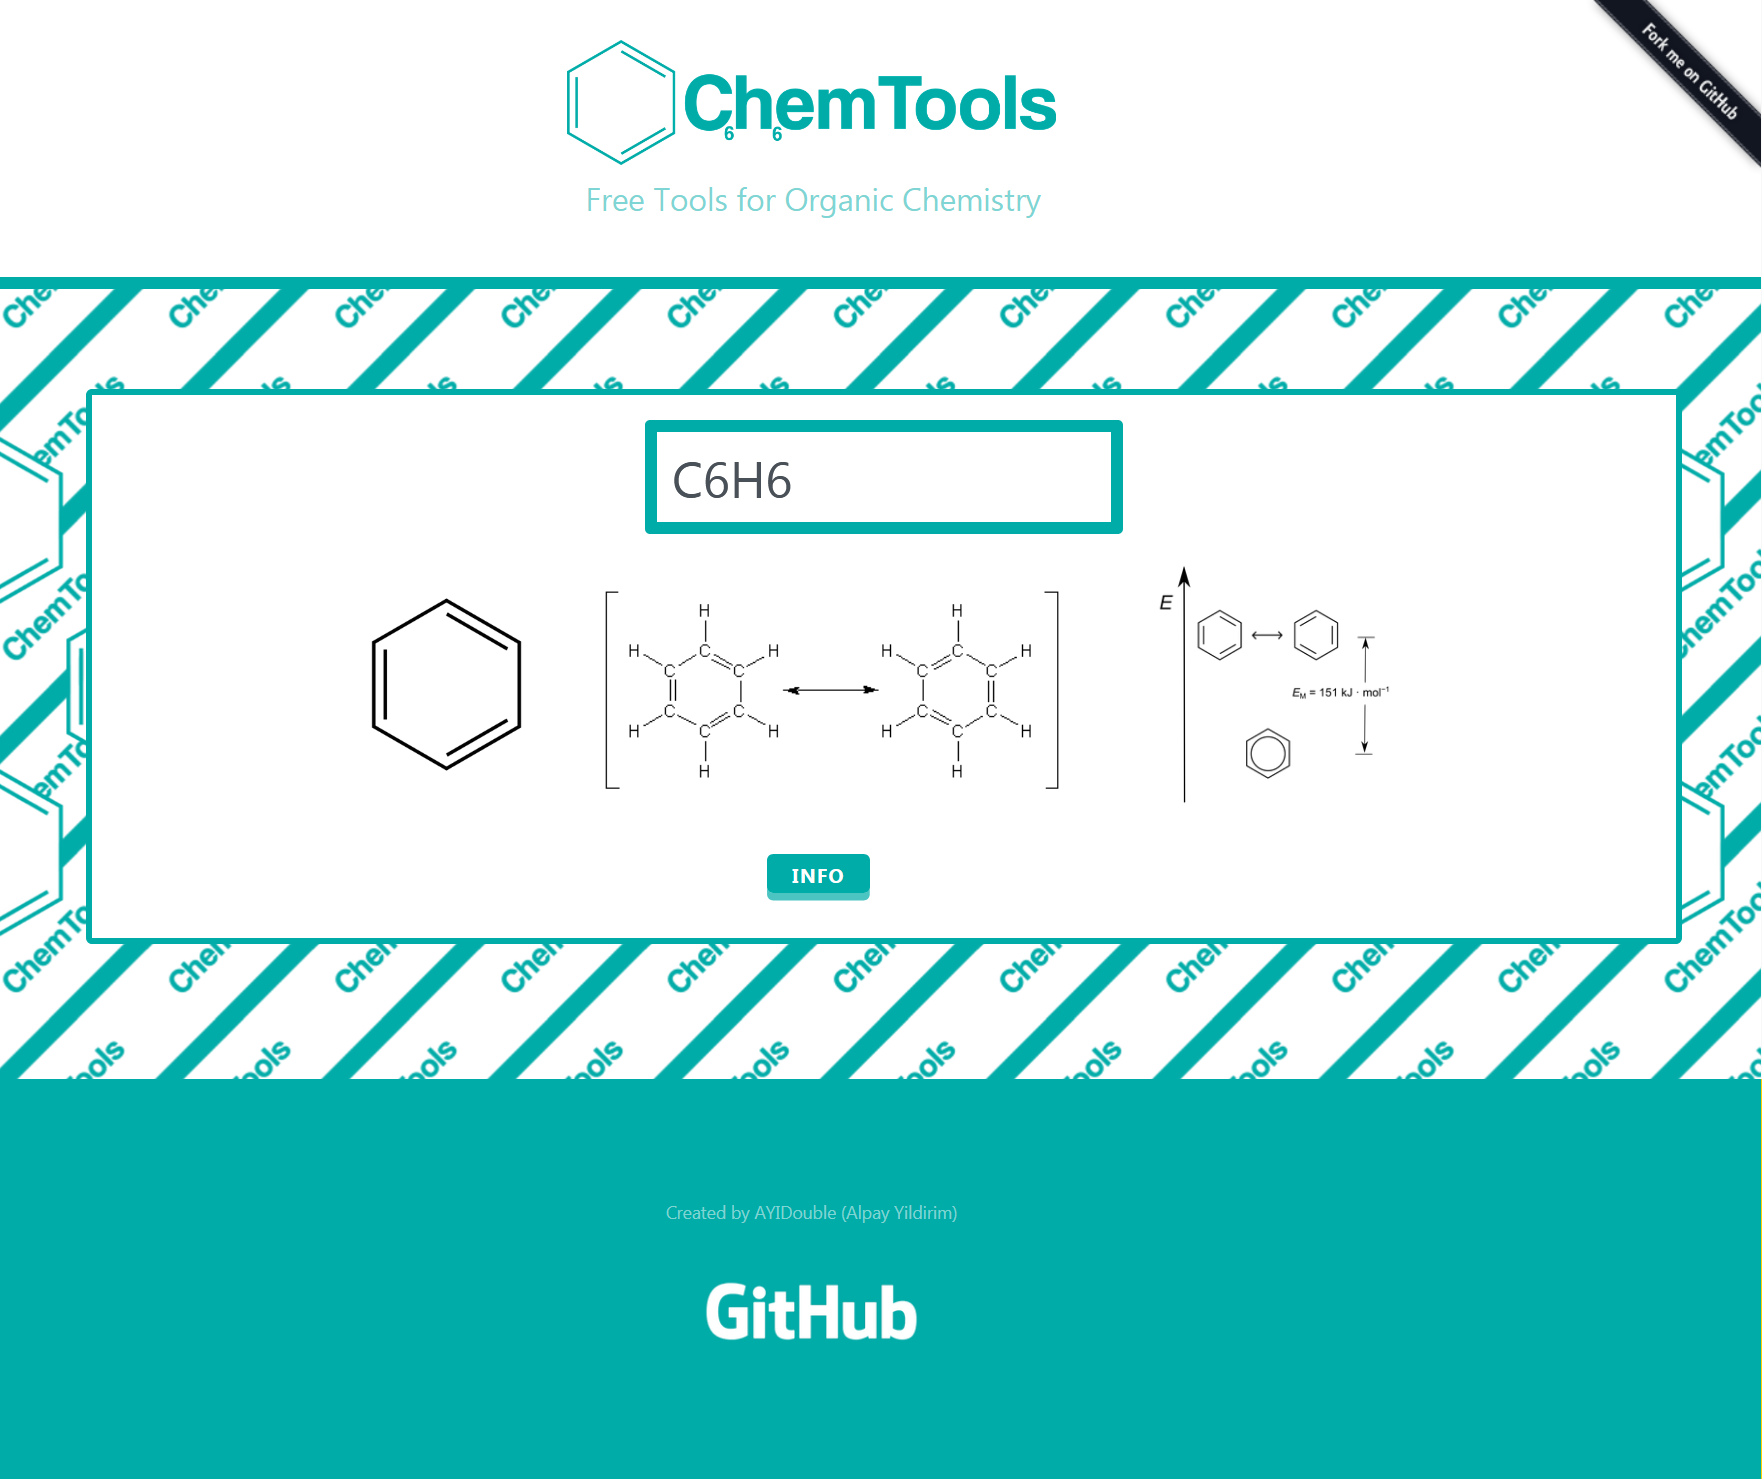
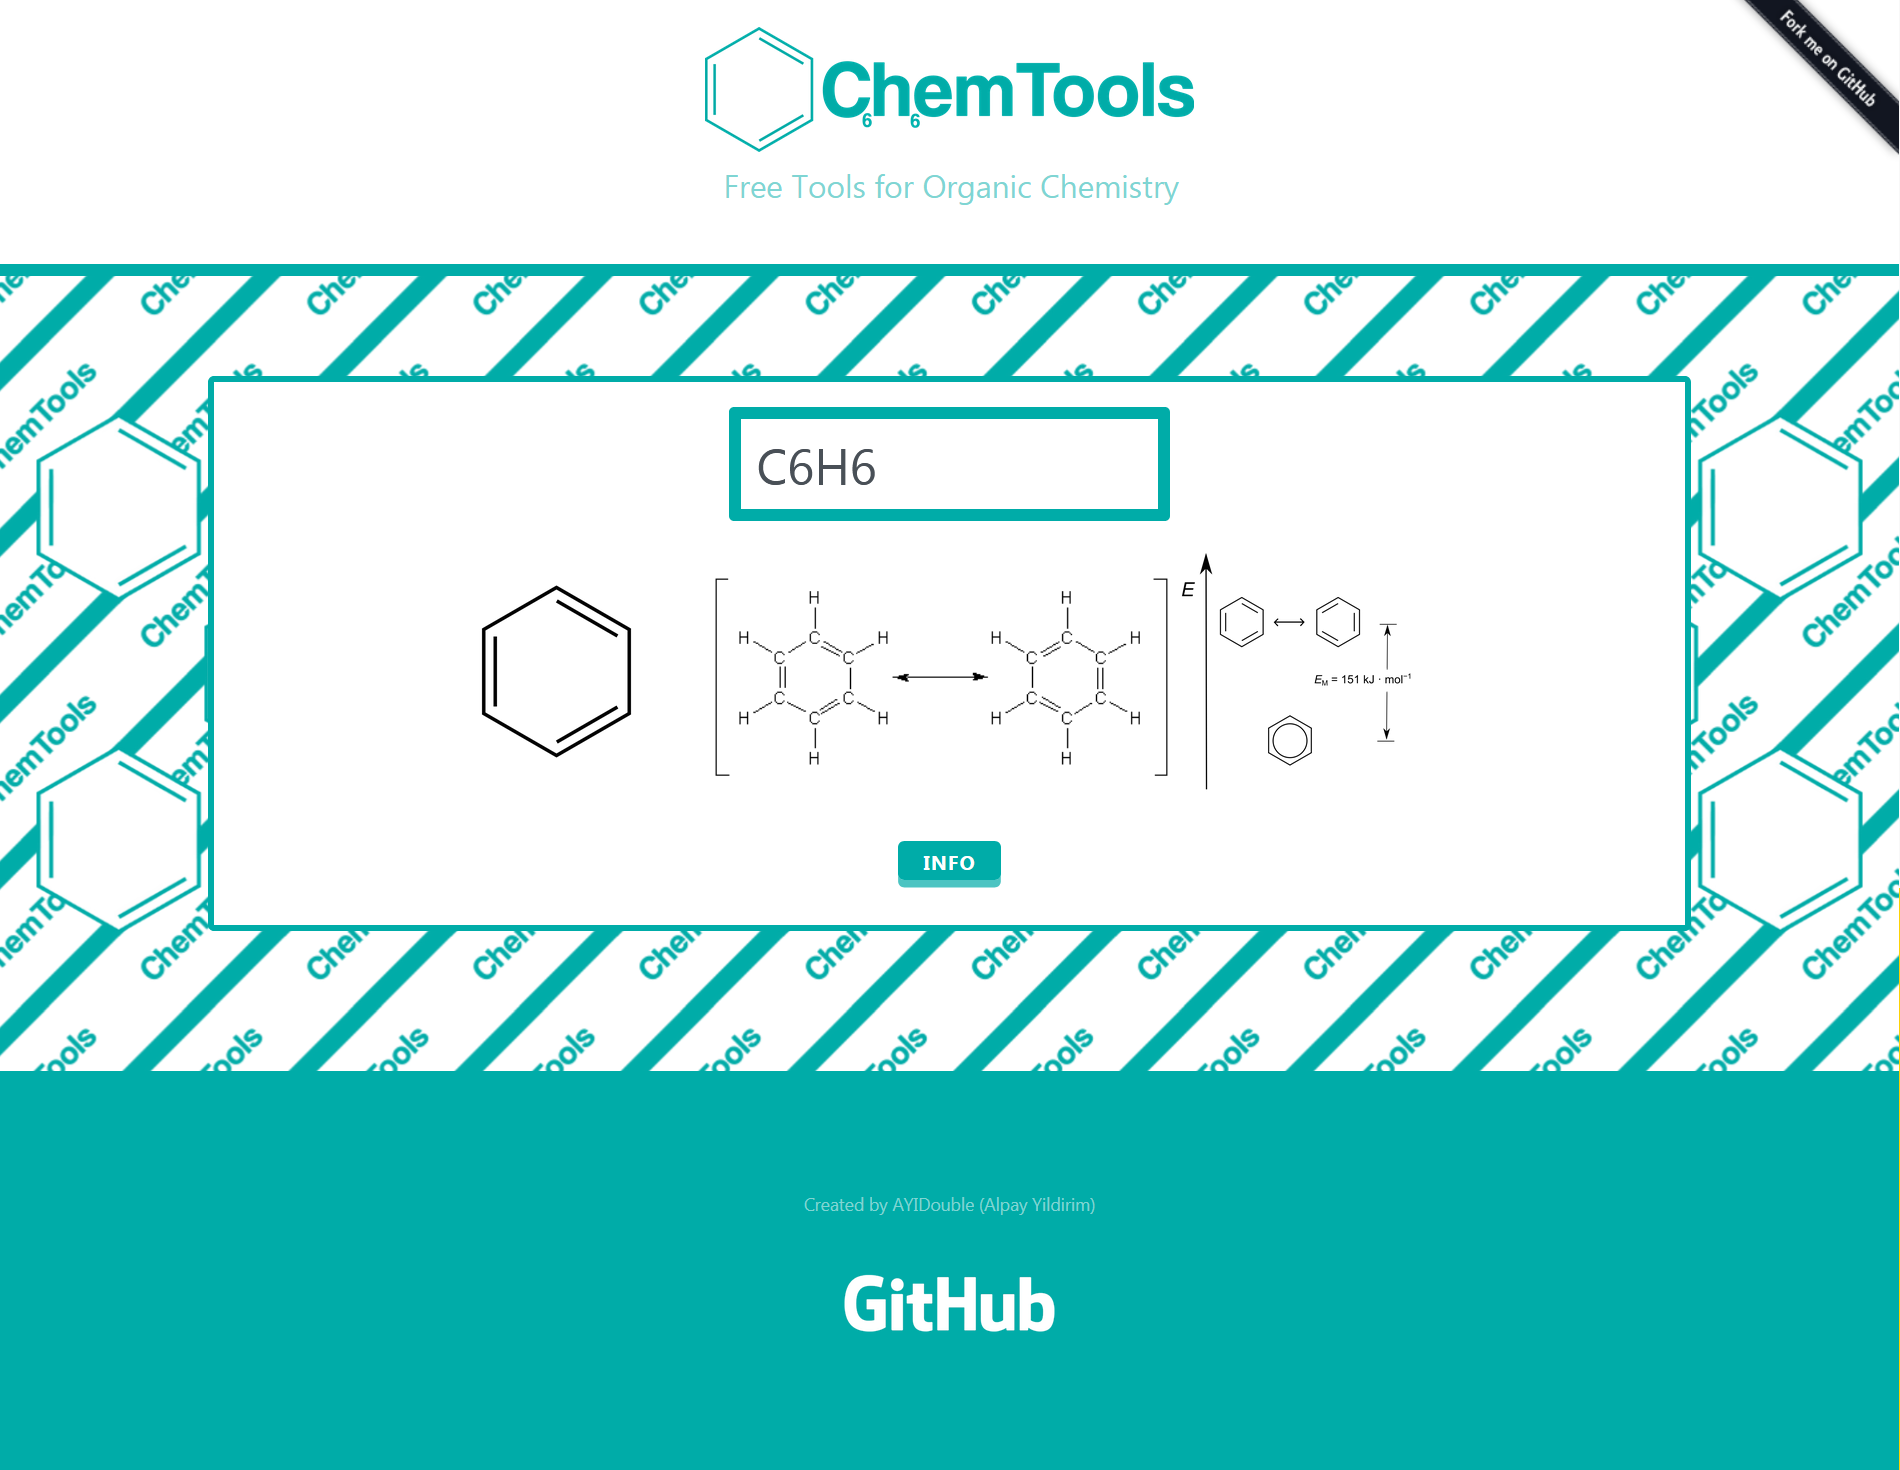
🔁 Edit

diff --git a/Main-Page/index.html b/Main-Page/index.html
@@ -58,8 +58,8 @@
             </header>
 
             <section class="backgroundChemTools color-1 col-md-12">
-            <div class="col-lg-12">
-                <div class="jumbotron col-lg-11 offset-lg-1 optionsBox">
+
+                <div class="jumbotron col-lg-10 offset-lg-1 optionsBox">
 
                     <center>
                         <div class="input-group col-lg-4">
@@ -77,7 +77,7 @@
 
                                 <p class="col-md-12 bitwiseButtons">
 
-                                    <button class="button button-2 button-2c" style="margin-left:-100px !important;" id="operand1RIGHTSHIFT"> Info </button>
+                                    <button class="button button-2 button-2c" id="operand1RIGHTSHIFT"> Info </button>
 
                                 </p>
 
@@ -86,7 +86,6 @@
                         </div>
                     </div>        
                 </div>
-            </div>
 
             </section>
         

diff --git a/css/default.css b/css/default.css
@@ -453,7 +453,7 @@ a:active {
 
 .StereoChemImage{
   height:200px;
-  padding-right:50px;
+  margin-right:-20px;
   margin-top:40px;
 } 
 
